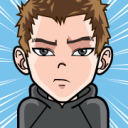
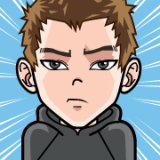
feat: アイコンを名前・肩書き・住まいの 3 行のまとまりの横に置く

diff --git a/index.html b/index.html
@@ -67,14 +67,21 @@
     box-shadow: 0 18px 40px rgb(15 23 42 / 0.08);
     padding: 32px 24px;
   }
-  /* アイコンは Gravatar の画像を取ってきて、このリポジトリの avatar.png（128px、表示の 2 倍）から出す。Gravatar の URL を直書きしない（メールのハッシュがページに載り、閲覧者の情報が Gravatar に渡るため） */
+  /* アイコンは Gravatar の画像を取ってきて、このリポジトリの avatar.png（160px、表示の 2 倍）から出す。Gravatar の URL を直書きしない（メールのハッシュがページに載り、閲覧者の情報が Gravatar に渡るため） */
+  /* アイコンは名前・肩書き・住まいの 3 行のまとまりの横に置く */
   .profile { display: flex; align-items: center; gap: 16px; }
-  .avatar { flex: none; width: 64px; height: 64px; border-radius: 50%; border: 1px solid var(--c-line); }
+  .profile-text { min-width: 0; }
+  .avatar { flex: none; width: 80px; height: 80px; border-radius: 50%; border: 1px solid var(--c-line); }
   h1 { margin: 0; font-size: 26px; line-height: 1.3; }
-  /* 幅の狭い画面（375px など）では、アイコンの横で名前が 2 行に割れないよう少し小さくする */
-  @media (max-width: 399px) { h1 { font-size: 22px; } }
+  /* 幅の狭い画面（375px など）では、アイコンの横で名前が 2 行に割れないよう、アイコンと名前を少し小さくする */
+  @media (max-width: 399px) {
+    .avatar { width: 64px; height: 64px; }
+    h1 { font-size: 22px; }
+  }
   .handle { display: inline-block; color: var(--c-muted); font-size: 16px; font-weight: 400; }
   .role { margin: 8px 0 0; color: var(--c-accent-ink); font-weight: 600; }
+  /* 狭い画面で肩書きが語の途中（Web / Developer）で割れないよう、肩書きごとにまとめる */
+  .role span { white-space: nowrap; }
   .place { margin: 4px 0 0; color: var(--c-muted); }
   ul { list-style: none; margin: 24px 0 0; padding: 0; display: grid; gap: 8px; }
   a.link {
@@ -97,11 +104,13 @@
 <body>
 <main>
   <div class="profile">
-    <img class="avatar" src="/avatar.png" width="64" height="64" alt="c2nprds のアイコン">
-    <h1>Daisuke Yokoyama <span class="handle">（@c2nprds）</span></h1>
+    <img class="avatar" src="/avatar.png" width="80" height="80" alt="c2nprds のアイコン">
+    <div class="profile-text">
+      <h1>Daisuke Yokoyama <span class="handle">（@c2nprds）</span></h1>
+      <p class="role"><span>Software Engineer</span>・<span>Web Developer</span>・<span>Editor</span></p>
+      <p class="place">日本, 坂戸市</p>
+    </div>
   </div>
-  <p class="role">Software Engineer・Web Developer・Editor</p>
-  <p class="place">日本, 坂戸市</p>
   <ul>
     <li><a class="link" href="https://c2nprds.com/tools/">入力を送らないツール <span>ツール集</span></a></li>
     <li><a class="link" href="https://github.com/c2nprds">GitHub <span>@c2nprds</span></a></li>
